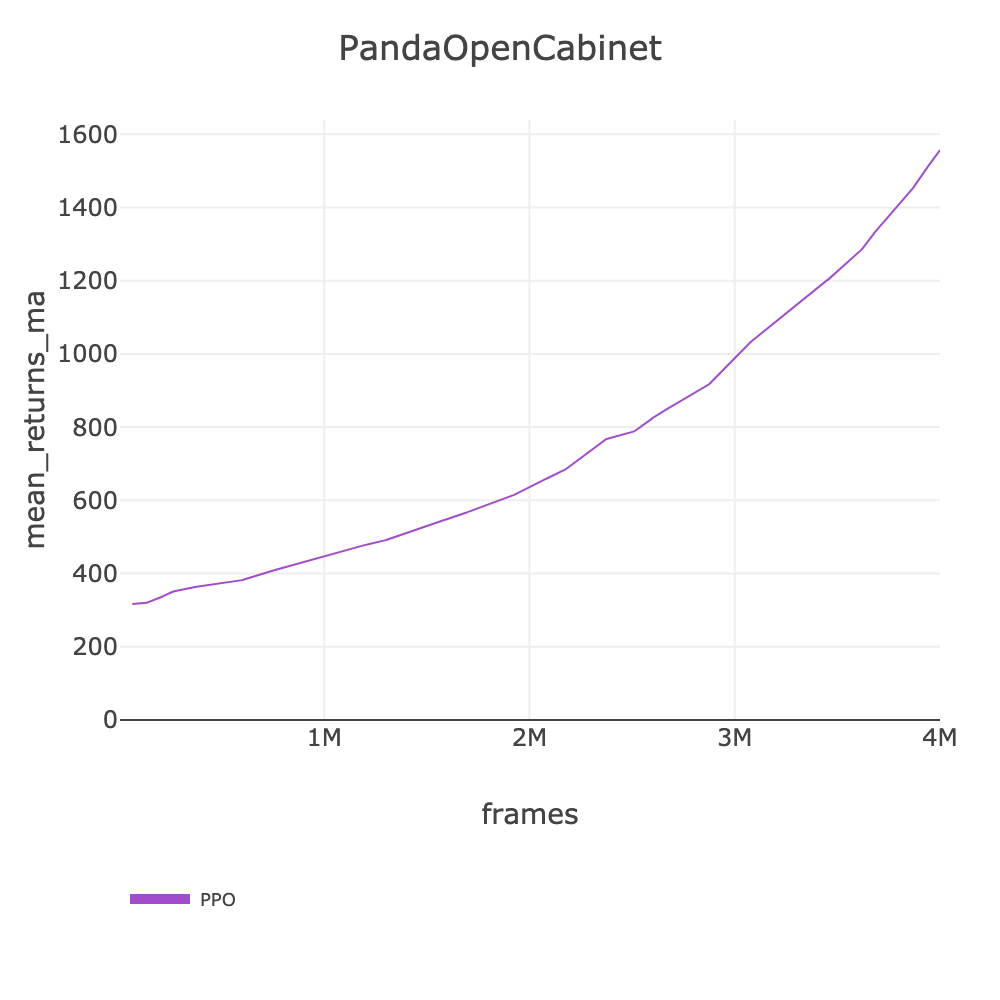
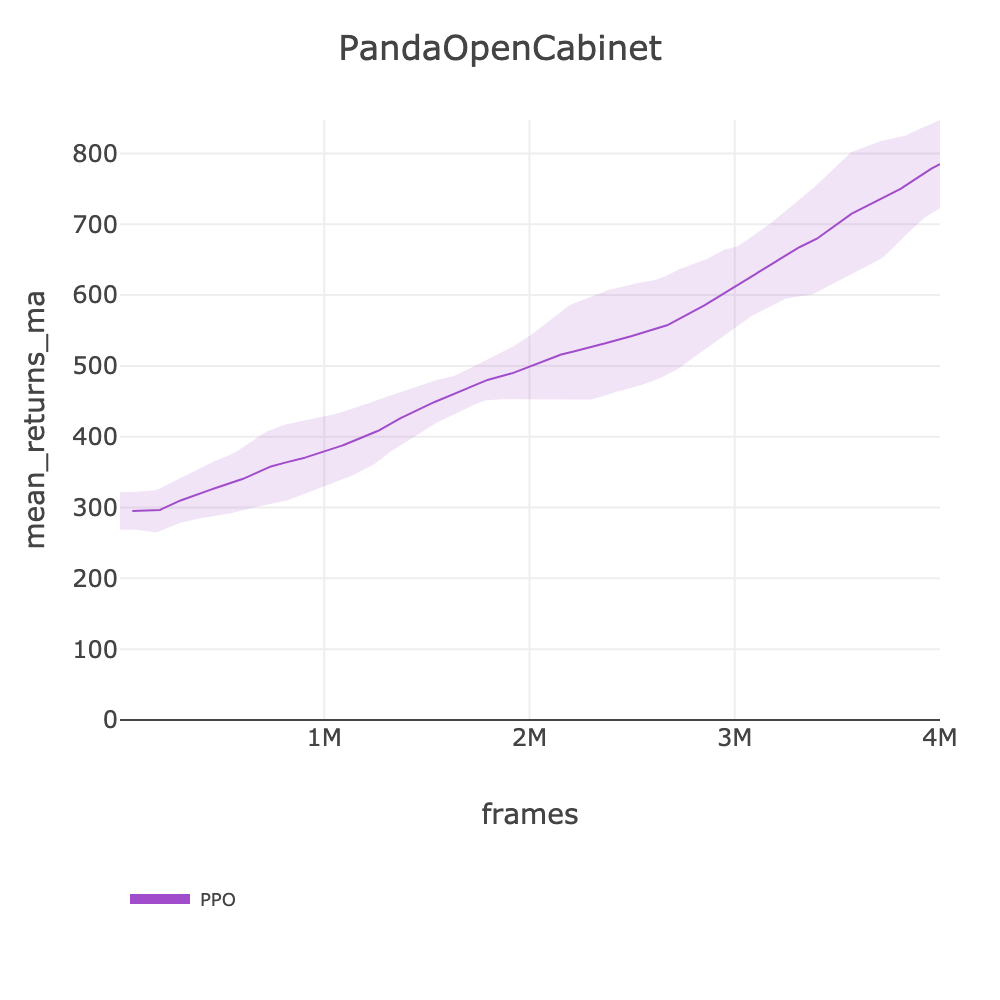
fix: manip plots batch 4 — PandaOpenCabinet, PandaPickCubeOrientation, PandaRobotiqPushCube 4-session reruns

diff --git a/docs/BENCHMARKS.md b/docs/BENCHMARKS.md
@@ -970,7 +970,7 @@ source .env && slm-lab run-remote --gpu -s env=playground/CartpoleBalance -s max
 | playground/LeapCubeRotateZAxis | PPO loco | -0.44 | N/A | ~122 (loco/64e) | 2M | ~4.5h | [ppo_playground_arc_loco_leapcuberotatezaxis_2026_03_09_120722](https://huggingface.co/datasets/SLM-Lab/benchmark-dev/tree/main/data/ppo_playground_arc_loco_leapcuberotatezaxis_2026_03_09_120722) |
 | | SAC | - | | - | - | - | - |
 | | CrossQ | - | | - | - | - | - |
-| playground/PandaOpenCabinet | PPO loco | 1556.88 | N/A | ~279 (loco/64e) | 4M | ~4.0h | [ppo_playground_arc_loco_pandaopencabinet_2026_03_08_093515](https://huggingface.co/datasets/SLM-Lab/benchmark-dev/tree/main/data/ppo_playground_arc_loco_pandaopencabinet_2026_03_08_093515) |
+| playground/PandaOpenCabinet | PPO loco | 784.92 | N/A | ~279 (loco/64e) | 4M | ~4.0h | [ppo_playground_arc_loco_pandaopencabinet_2026_03_09_120645](https://huggingface.co/datasets/SLM-Lab/benchmark-dev/tree/main/data/ppo_playground_arc_loco_pandaopencabinet_2026_03_09_120645) |
 | | SAC | - | | - | - | - | - |
 | | CrossQ | - | | - | - | - | - |
 | playground/PandaPickCube | PPO loco | 594.20 | N/A | ~249 (loco/64e) | 4M | ~4.5h | [ppo_playground_arc_loco_pandapickcube_2026_03_09_120645](https://huggingface.co/datasets/SLM-Lab/benchmark-dev/tree/main/data/ppo_playground_arc_loco_pandapickcube_2026_03_09_120645) |
@@ -979,10 +979,10 @@ source .env && slm-lab run-remote --gpu -s env=playground/CartpoleBalance -s max
 | playground/PandaPickCubeCartesian | PPO | - | N/A | - | - | - | - |
 | | SAC | - | | - | - | - | - |
 | | CrossQ | - | | - | - | - | - |
-| playground/PandaPickCubeOrientation | PPO loco | 389.02 | N/A | ~244 (loco/64e) | 4M | ~4.6h | [ppo_playground_arc_loco_pandapickcubeorientation_2026_03_08_093522](https://huggingface.co/datasets/SLM-Lab/benchmark-dev/tree/main/data/ppo_playground_arc_loco_pandapickcubeorientation_2026_03_08_093522) |
+| playground/PandaPickCubeOrientation | PPO loco | 687.74 | N/A | ~244 (loco/64e) | 4M | ~4.6h | [ppo_playground_arc_loco_pandapickcubeorientation_2026_03_09_120703](https://huggingface.co/datasets/SLM-Lab/benchmark-dev/tree/main/data/ppo_playground_arc_loco_pandapickcubeorientation_2026_03_09_120703) |
 | | SAC | - | | - | - | - | - |
 | | CrossQ | - | | - | - | - | - |
-| playground/PandaRobotiqPushCube | PPO loco | 0.20 | N/A | ~297 (loco/64e) | 4M | ~3.7h | [ppo_playground_arc_loco_pandarobotiqpushcube_2026_03_08_093600](https://huggingface.co/datasets/SLM-Lab/benchmark-dev/tree/main/data/ppo_playground_arc_loco_pandarobotiqpushcube_2026_03_08_093600) |
+| playground/PandaRobotiqPushCube | PPO loco | 0.15 | N/A | ~297 (loco/64e) | 4M | ~3.7h | [ppo_playground_arc_loco_pandarobotiqpushcube_2026_03_09_120722](https://huggingface.co/datasets/SLM-Lab/benchmark-dev/tree/main/data/ppo_playground_arc_loco_pandarobotiqpushcube_2026_03_09_120722) |
 | | SAC | - | | - | - | - | - |
 | | CrossQ | - | | - | - | - | - |
 
